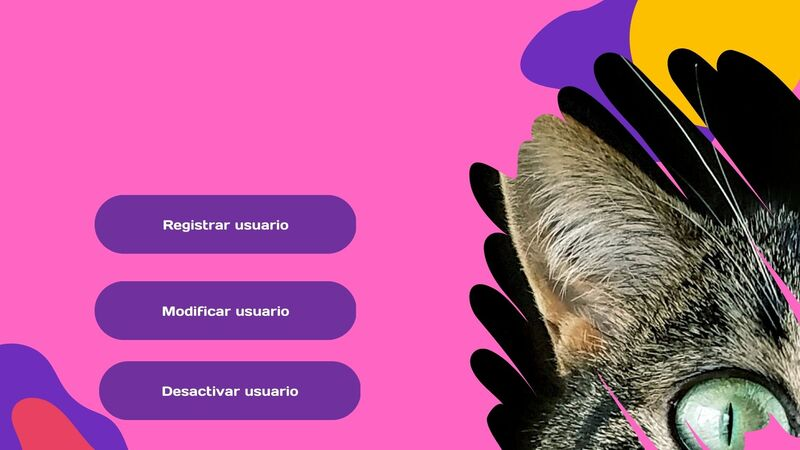
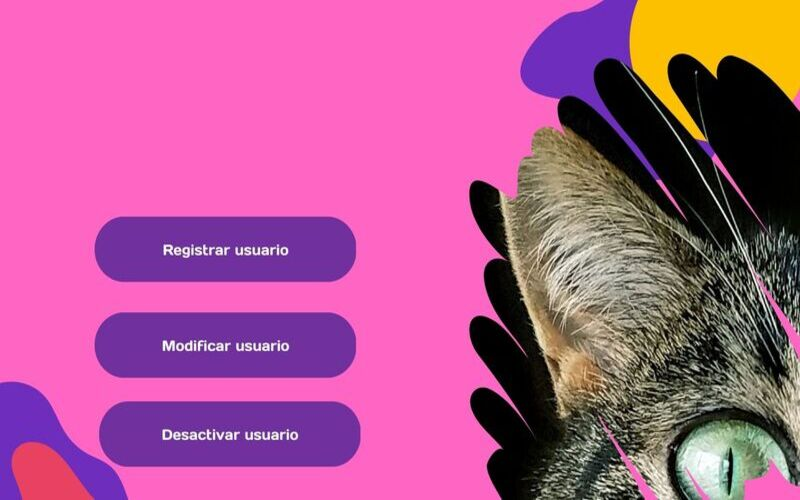
Add files via upload

diff --git a/Veterinaria/BienvenidoAdmin/src/main/java/com/mycompany/bienvenidoadmin/BienvenidoAdmin.java b/Veterinaria/BienvenidoAdmin/src/main/java/com/mycompany/bienvenidoadmin/BienvenidoAdmin.java
@@ -36,6 +36,7 @@ public class BienvenidoAdmin extends javax.swing.JFrame {
         setDefaultCloseOperation(javax.swing.WindowConstants.EXIT_ON_CLOSE);
         setMaximumSize(new java.awt.Dimension(800, 500));
         setMinimumSize(new java.awt.Dimension(800, 500));
+        setPreferredSize(new java.awt.Dimension(800, 500));
         getContentPane().setLayout(new org.netbeans.lib.awtextra.AbsoluteLayout());
 
         Titulo.setFont(new java.awt.Font("Days", 0, 40)); // NOI18N
@@ -47,7 +48,7 @@ public class BienvenidoAdmin extends javax.swing.JFrame {
         getContentPane().add(Text, new org.netbeans.lib.awtextra.AbsoluteConstraints(90, 80, -1, -1));
 
         Fondo.setIcon(new javax.swing.ImageIcon(getClass().getResource("/com/mycompany/bienvenidoadmin/8.jpg"))); // NOI18N
-        getContentPane().add(Fondo, new org.netbeans.lib.awtextra.AbsoluteConstraints(0, -40, 800, 570));
+        getContentPane().add(Fondo, new org.netbeans.lib.awtextra.AbsoluteConstraints(0, -30, 800, 570));
 
         jButton3.setText("bajar");
         jButton3.addActionListener(new java.awt.event.ActionListener() {
@@ -55,7 +56,7 @@ public class BienvenidoAdmin extends javax.swing.JFrame {
                 jButton3ActionPerformed(evt);
             }
         });
-        getContentPane().add(jButton3, new org.netbeans.lib.awtextra.AbsoluteConstraints(100, 380, 270, 70));
+        getContentPane().add(jButton3, new org.netbeans.lib.awtextra.AbsoluteConstraints(100, 410, 270, 70));
 
         jButton2.setText("Modificar");
         jButton2.addActionListener(new java.awt.event.ActionListener() {
@@ -63,7 +64,7 @@ public class BienvenidoAdmin extends javax.swing.JFrame {
                 jButton2ActionPerformed(evt);
             }
         });
-        getContentPane().add(jButton2, new org.netbeans.lib.awtextra.AbsoluteConstraints(90, 290, 270, 70));
+        getContentPane().add(jButton2, new org.netbeans.lib.awtextra.AbsoluteConstraints(90, 310, 270, 70));
 
         jButton1.setText("registar usuario");
         jButton1.addActionListener(new java.awt.event.ActionListener() {
@@ -71,7 +72,7 @@ public class BienvenidoAdmin extends javax.swing.JFrame {
                 jButton1ActionPerformed(evt);
             }
         });
-        getContentPane().add(jButton1, new org.netbeans.lib.awtextra.AbsoluteConstraints(90, 210, 270, 60));
+        getContentPane().add(jButton1, new org.netbeans.lib.awtextra.AbsoluteConstraints(90, 220, 270, 60));
 
         pack();
     }// </editor-fold>//GEN-END:initComponents
